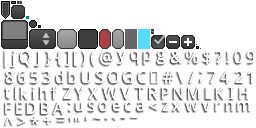
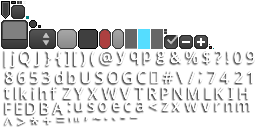
Added Menu bar UI, added menu bar auto expanding

Changed region(s): [[0.5625, 0.2188, 0.8438, 0.4062], [0.5, 0.375, 0.5312, 0.4062]]

diff --git a/Editor/src/pl/kotcrab/vis/editor/ui/MenuBar.java b/Editor/src/pl/kotcrab/vis/editor/ui/MenuBar.java
@@ -1,31 +1,41 @@
 
 package pl.kotcrab.vis.editor.ui;
 
+
 import com.badlogic.gdx.math.Rectangle;
 import com.badlogic.gdx.math.Vector2;
 import com.badlogic.gdx.scenes.scene2d.InputEvent;
 import com.badlogic.gdx.scenes.scene2d.InputListener;
 import com.badlogic.gdx.scenes.scene2d.Stage;
+import com.badlogic.gdx.scenes.scene2d.ui.Image;
+import com.badlogic.gdx.scenes.scene2d.ui.Label;
 import com.badlogic.gdx.scenes.scene2d.ui.Skin;
 import com.badlogic.gdx.scenes.scene2d.ui.Table;
 import com.badlogic.gdx.scenes.scene2d.ui.TextButton;
 import com.badlogic.gdx.utils.Array;
 
-public class MenuBar extends Table {
+public class MenuBar {
 	private Array<MenuItem> menus;
 	private Stage stage;
 	private Skin skin;
 
+	private Table mainTable;
+	private Table menuItems;
+	
 	private Menu lastDisplayedMenu;
 	private boolean menuVisible = false;
 
 	public MenuBar (Stage stage, Skin skin) {
-		super(skin);
 		this.skin = skin;
 		this.stage = stage;
-
+		
 		menus = new Array<MenuItem>();
-
+		mainTable = new Table(skin);
+		menuItems = new Table(skin);
+		
+		mainTable.add(menuItems);
+		mainTable.add(new Image(skin.getRegion("menu-bar-button"))).expand().fill();
+		
 		stage.addListener(new InputListener() {
 			@Override
 			public boolean touchDown (InputEvent event, float x, float y, int pointer, int button) {
@@ -67,8 +77,8 @@ public class MenuBar extends Table {
 
 		public MenuItem (Menu menu) {
 			this.menu = menu;
-			menuOpenButton = new TextButton(menu.getTitle(), skin, "menu");
-			add(menuOpenButton);
+			menuOpenButton = new TextButton(menu.getTitle(), skin, "menu-bar");
+			menuItems.add(menuOpenButton);
 
 			menuOpenButton.addListener(new InputListener() {
 				@Override
@@ -88,5 +98,9 @@ public class MenuBar extends Table {
 
 			lastDisplayedMenu = menu;
 		}
+	}
+
+	public Table getTable () {
+		return mainTable;
 	}
 }

diff --git a/Editor/src/pl/kotcrab/vis/editor/Editor.java b/Editor/src/pl/kotcrab/vis/editor/Editor.java
@@ -31,7 +31,7 @@ public class Editor extends ApplicationAdapter {
 
 		root = new Table();
 		root.setFillParent(true);
-		root.debug();
+//		root.debug();
 		stage.addActor(root);
 		
 		Skin skin = new Skin(Gdx.files.internal("uiskin.json"));
@@ -40,7 +40,7 @@ public class Editor extends ApplicationAdapter {
 		mb = new MenuBar(stage, skin);
 
 		root.left().top();
-		root.add(mb);
+		root.add(mb.getTable()).fillX().expandX();
 
 		Menu m1 = new Menu("File");
 		Menu m2 = new Menu("Scene");
